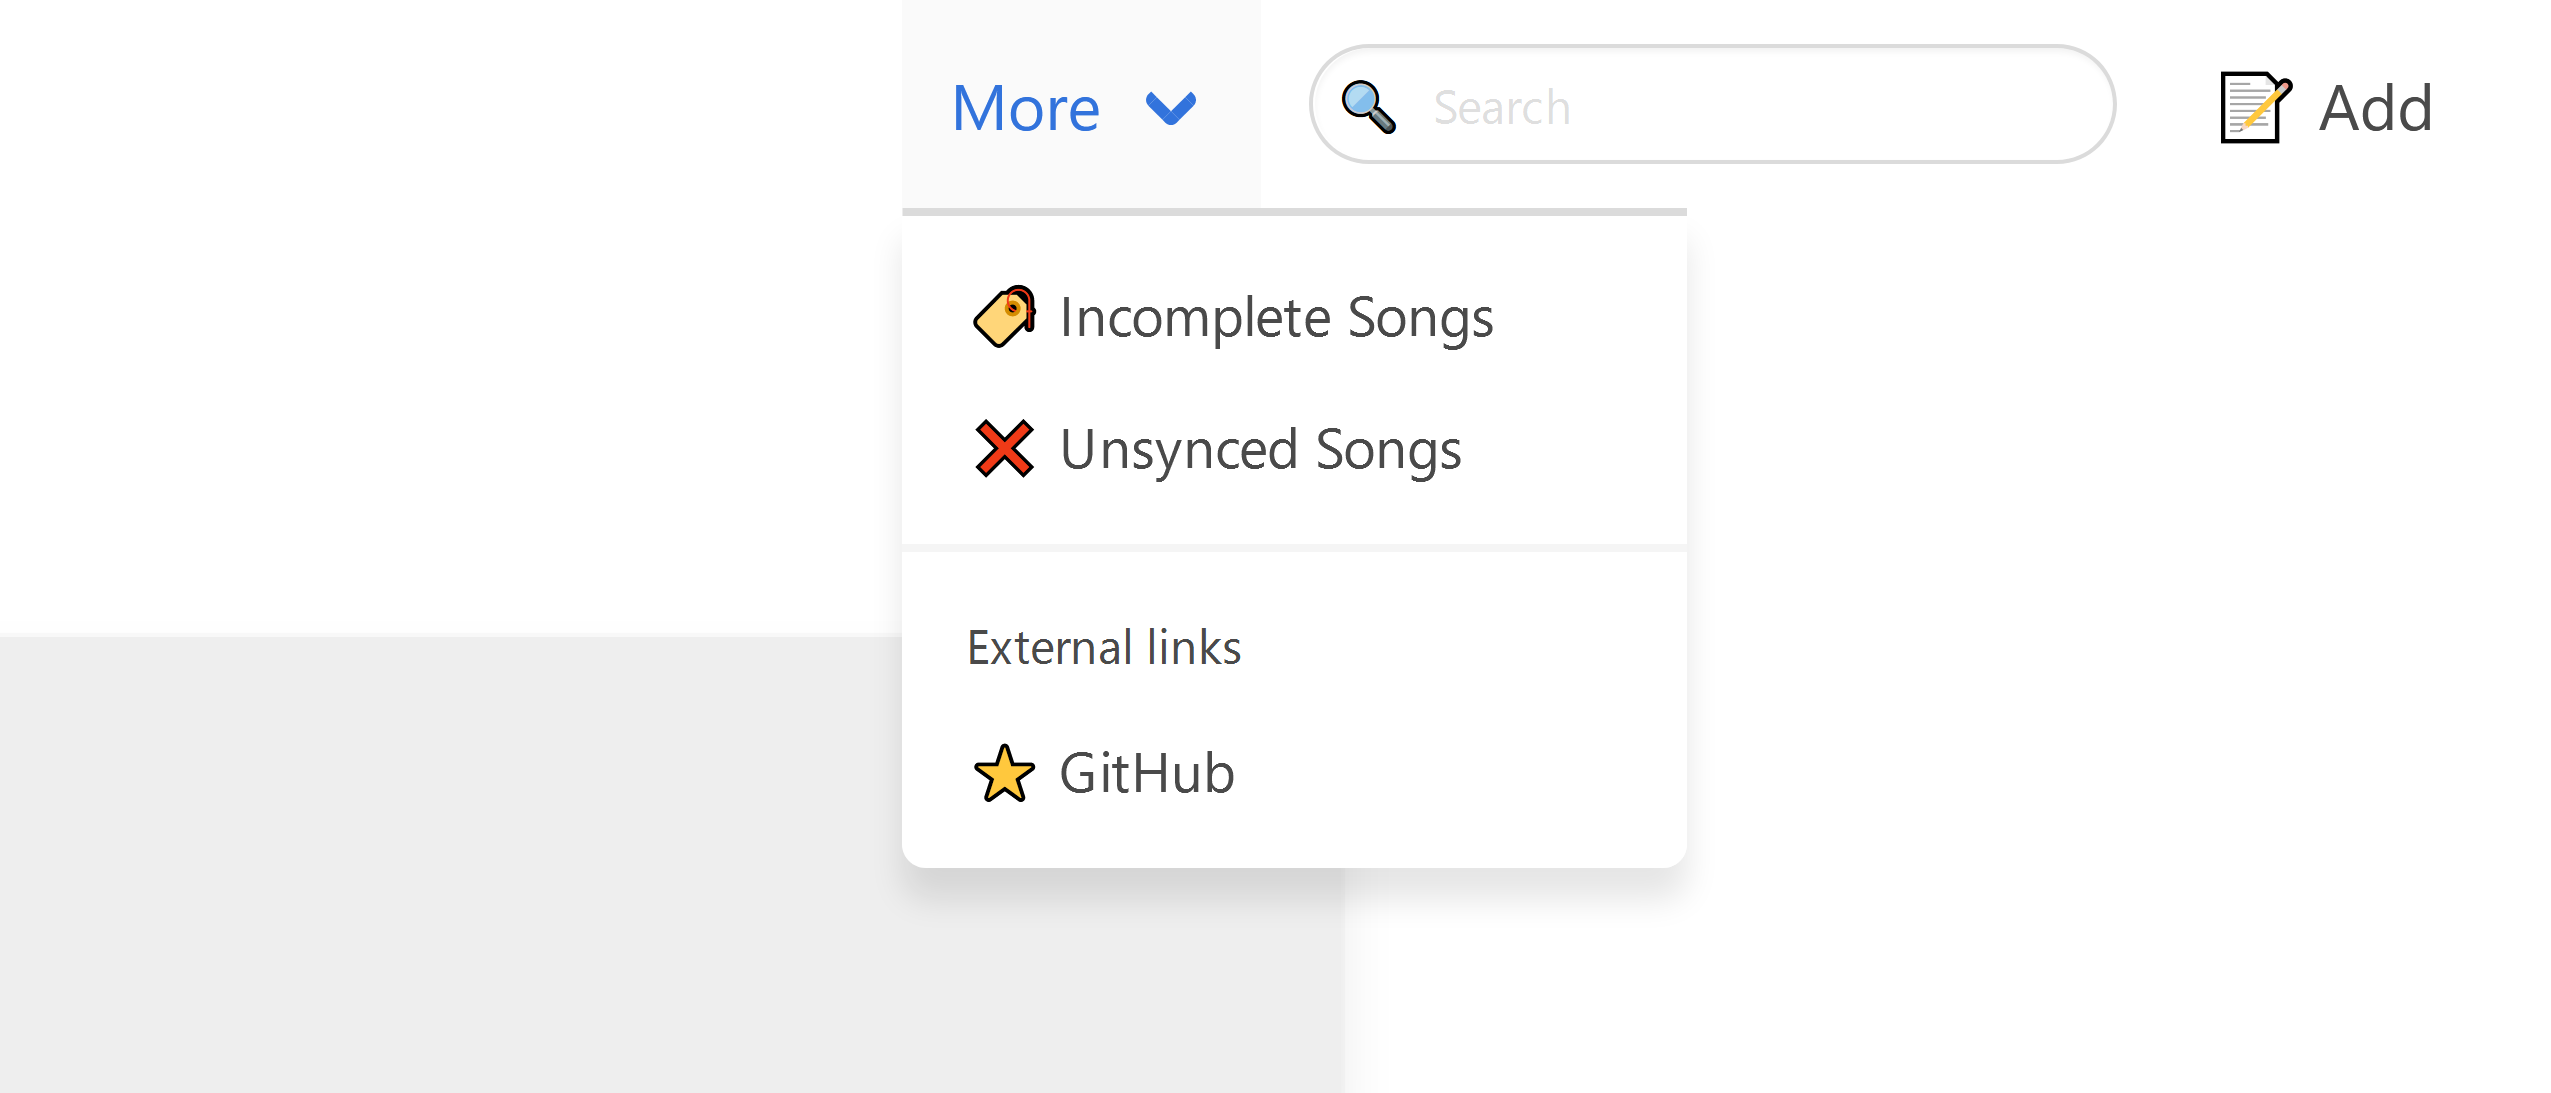
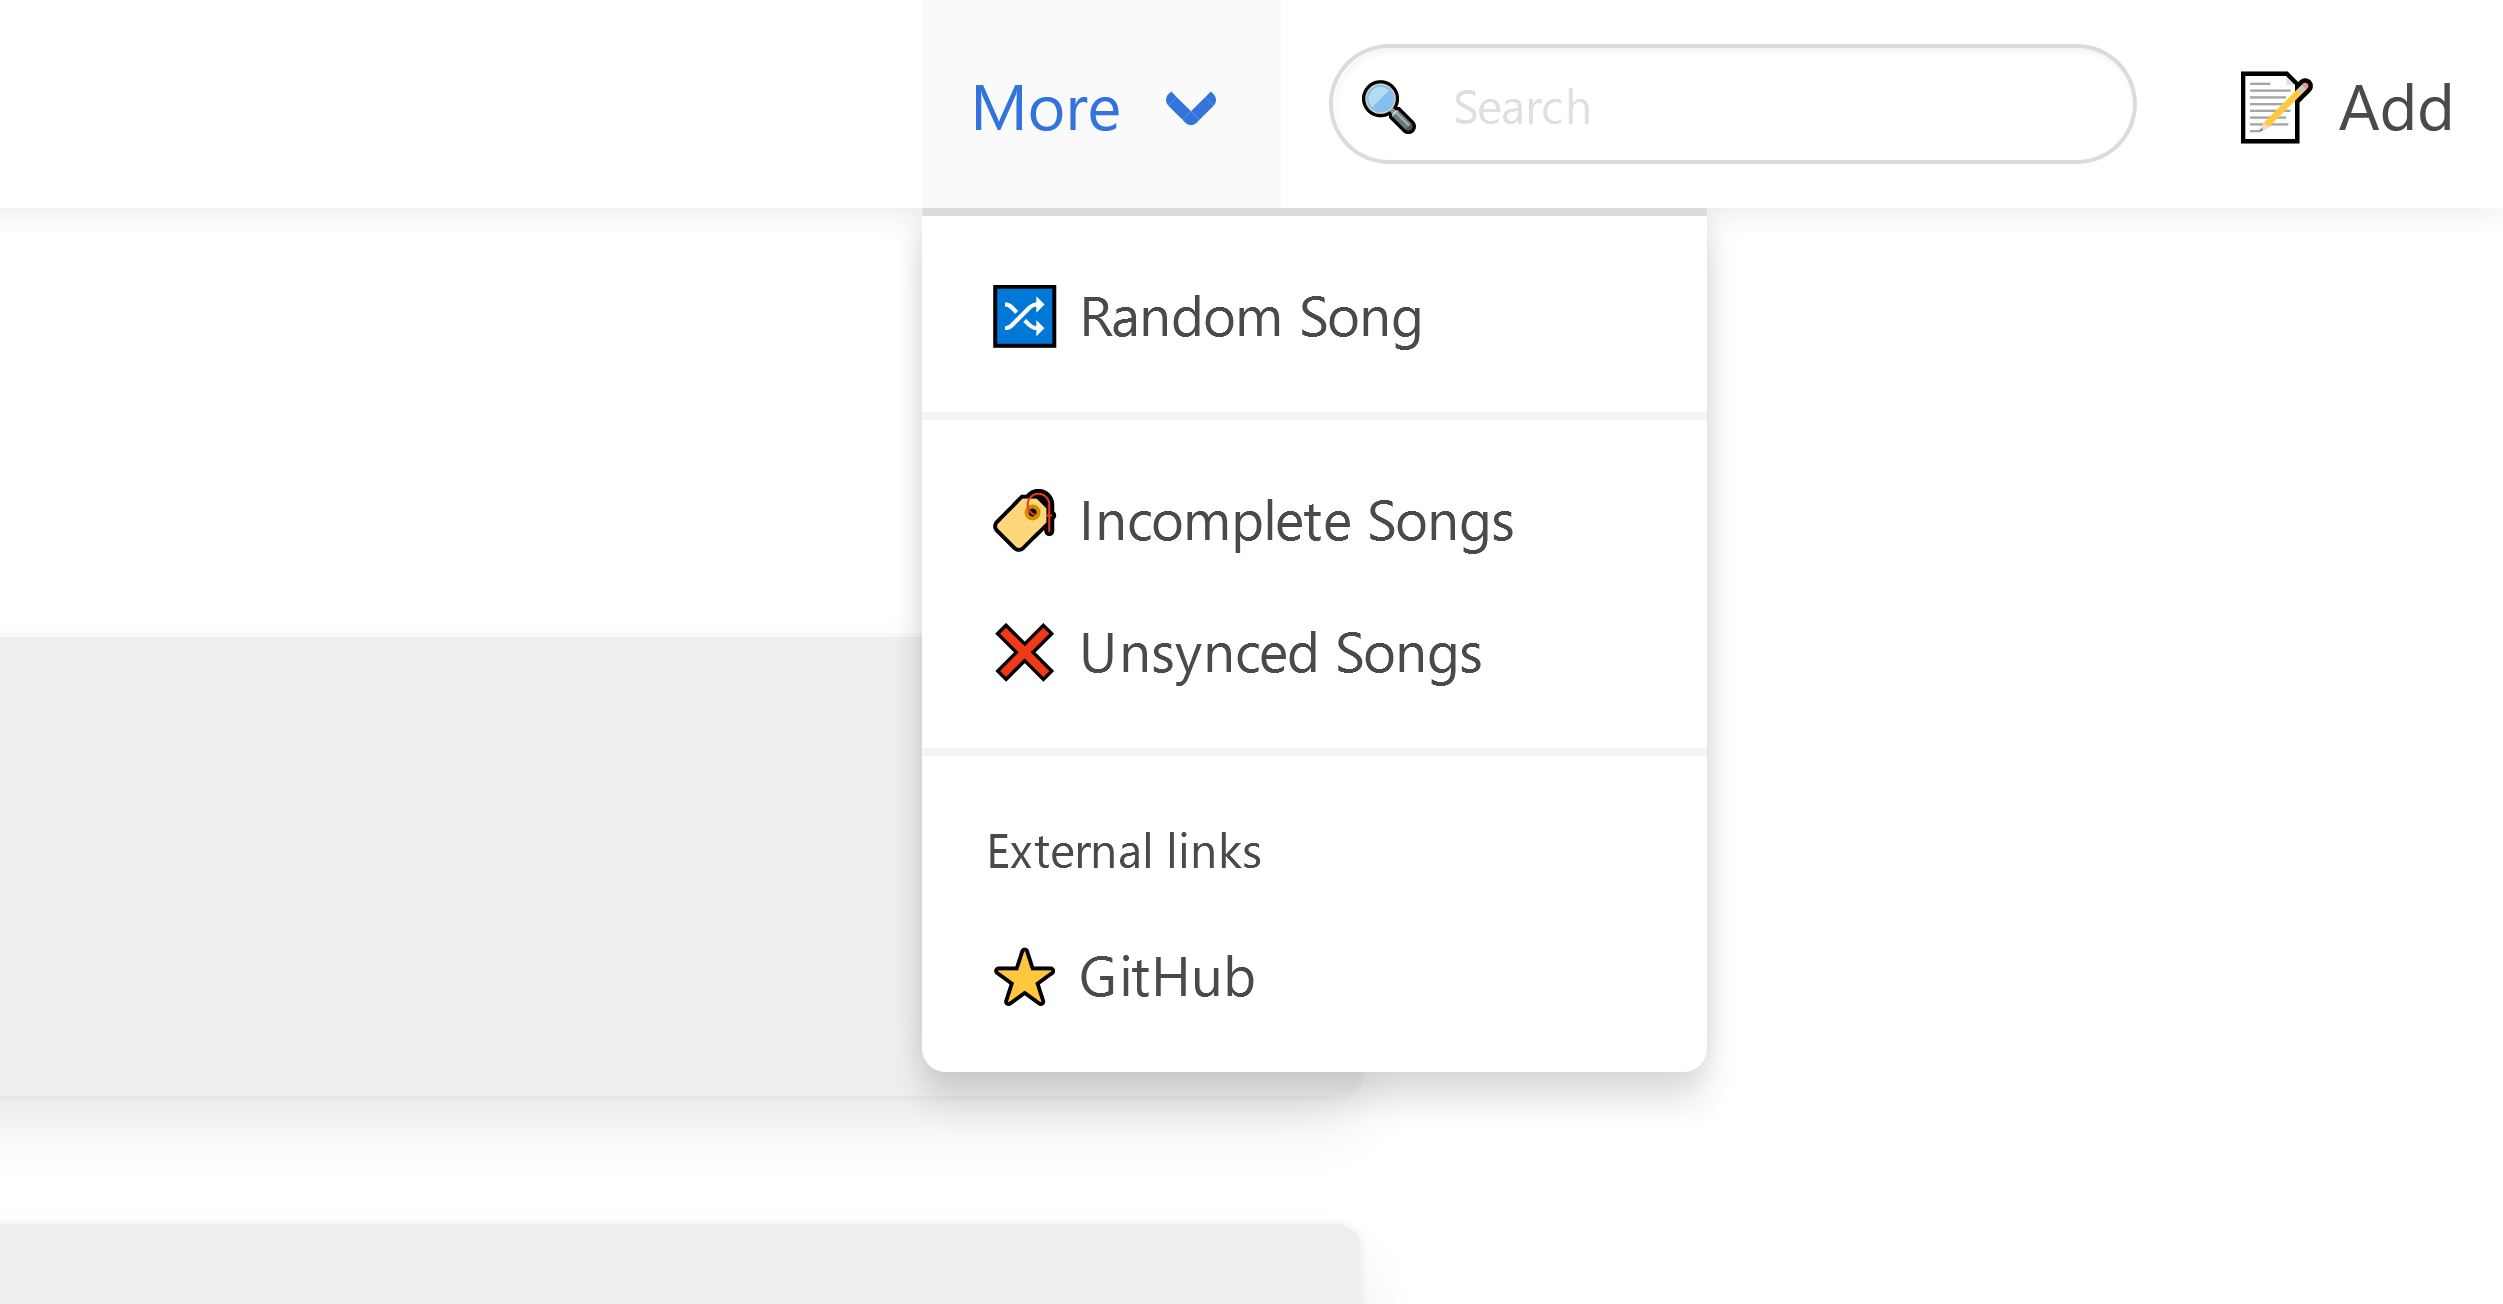
Add "Random Song" button

diff --git a/assets/js/search.min.js b/assets/js/search.min.js
@@ -1,1 +1,1 @@
-var isSearch=!1,nextUrl=null;function initSearch(){var sb=document.getElementById("search-bar"),sc=document.getElementById("search-container"),sf;function setLoading(l){l?sc.classList.add("is-loading"):sc.classList.remove("is-loading")}document.getElementById("search-form").onsubmit=function(evt){evt.preventDefault(),isSearch=!0,isReload=!0,setLoading(!0),InstantClick.go("/search?q="+encodeURIComponent(sb.value))}}function focusSearch(){var sb=document.getElementById("search-bar");sb&&(document.querySelector(".navbar-burger").classList.toggle("is-active"),document.querySelector(".navbar-menu").classList.toggle("is-active"),sb.value.endsWith(" ")||0===sb.value.length||(sb.value+=" "),sb.setSelectionRange(sb.value.length,sb.value.length),sb.focus())}InstantClick.on("change",(function(){isSearch=!1,isReload=!1,nextUrl?(history.replaceState("","",nextUrl),nextUrl=null):(window.scrollY=0,isSearch&&focusSearch())})),InstantClick.on("receive",(function(url,body,title){if("mediaSession"in navigator){navigator.mediaSession.playbackState="none",navigator.mediaSession.metadata=null;var a=document.querySelector("audio");a&&(a.src="",a.pause())}if(isSearch){var song=body.querySelector("#song-id");return song&&(nextUrl="/song/"+song.value),{body:body,title:title}}}));
+var isSearch=!1,nextUrl=null;function initSearch(){var sb=document.getElementById("search-bar"),sc=document.getElementById("search-container"),sf;function setLoading(l){l?sc.classList.add("is-loading"):sc.classList.remove("is-loading")}document.getElementById("search-form").onsubmit=function(evt){evt.preventDefault(),isSearch=!0,isReload=!0,setLoading(!0),InstantClick.go("/search?q="+encodeURIComponent(sb.value))}}function focusSearch(){var sb=document.getElementById("search-bar");sb&&(document.querySelector(".navbar-burger").classList.toggle("is-active"),document.querySelector(".navbar-menu").classList.toggle("is-active"),sb.value.endsWith(" ")||0===sb.value.length||(sb.value+=" "),sb.setSelectionRange(sb.value.length,sb.value.length),sb.focus())}InstantClick.on("change",(function(){isSearch=!1,isReload=!1,nextUrl?(history.replaceState("","",nextUrl),nextUrl=null):(window.scrollY=0,isSearch&&focusSearch())})),InstantClick.on("receive",(function(url,body,title){if("mediaSession"in navigator){navigator.mediaSession.playbackState="none",navigator.mediaSession.metadata=null;var a=document.querySelector("audio");a&&(a.src="",a.pause())}var song=body.querySelector("#song-id");if(song&&(nextUrl="/song/"+song.value),isSearch)return{body:body,title:title}}));

diff --git a/templates/head.html b/templates/head.html
@@ -63,6 +63,10 @@
                     </a>
 
                     <div class="navbar-dropdown">
+                        <a href="/songs/random" class="navbar-item">
+                            <span class="bd-emoji">🔀</span> &nbsp;Random Song
+                        </a>
+                        <hr class="navbar-divider">
                         <a href="/incomplete" class="navbar-item">
                             <span class="bd-emoji">🏷</span> &nbsp;Incomplete Songs
                         </a>

diff --git a/assets/js/search.js b/assets/js/search.js
@@ -35,14 +35,15 @@ InstantClick.on('receive', function (url, body, title) {
             a.pause();
         }
     }
-    if (!isSearch) {
-        return;
-    }
 
     // song is there, we have been redirected. Sadly instantclick.js doesn't handle this, so we need to check it here
     var song = body.querySelector("#song-id");
     if (song) {
         nextUrl = "/song/" + song.value; 
+    }
+    
+    if (!isSearch) {
+        return;
     }
 
     return {

diff --git a/web/song.go b/web/song.go
@@ -141,3 +141,21 @@ func HandleEditSong(w http.ResponseWriter, r *http.Request) (err error) {
 	http.Redirect(w, r, r.URL.String(), http.StatusSeeOther)
 	return
 }
+
+// HandleRandomSong redirects to a randomly chosen song
+func HandleRandomSong(w http.ResponseWriter, r *http.Request) (err error) {
+	song, ok := store.M.RandomSong()
+	if !ok {
+		return HTTPError{
+			StatusCode: http.StatusNotFound,
+			Message:    "There aren't any songs that can be chosen from",
+		}
+	}
+
+	// don't cache, we want a new one every time
+	w.Header().Set("Cache-Control", "no-cache, max-age=0, must-revalidate")
+	w.Header().Set("Pragma", "no-cache")
+
+	http.Redirect(w, r, "/song/"+song.ID, http.StatusTemporaryRedirect)
+	return
+}

diff --git a/web/server.go b/web/server.go
@@ -65,6 +65,8 @@ func RunServer(cfg config.Config, enableDebug bool) (err error) {
 	r.HandleFunc("/song/{songID}/audio", ErrWrap(HandleAudio)).Methods(http.MethodGet)
 	r.HandleFunc("/song/{songID}/mp3", ErrWrap(HandleMP3)).Methods(http.MethodGet)
 
+	r.HandleFunc("/songs/random", ErrWrap(debugWrap(HandleRandomSong))).Methods(http.MethodGet)
+
 	// Album Listing
 	// r.HandleFunc("/albums")
 	r.HandleFunc("/album/{artist}/{album}", ErrWrap(debugWrap(HandleShowAlbum))).Methods(http.MethodGet)

diff --git a/store/sort.go b/store/sort.go
@@ -2,6 +2,7 @@ package store
 
 import (
 	"fmt"
+	"math/rand"
 	"path/filepath"
 	"sort"
 	"strconv"
@@ -377,4 +378,14 @@ func songLenDescription(count int) string {
 		return ""
 	}
 	return strconv.Itoa(count) + " songs"
+}
+
+// RandomSong returns a randomly chosen song. `ok` is false in case we have no songs at all
+func (m *Manager) RandomSong() (e music.Entry, ok bool) {
+	songs := m.AllEntries()
+	if len(songs) == 0 {
+		return
+	}
+
+	return songs[rand.Intn(len(songs))], true
 }
